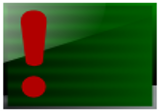
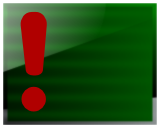
Fixed walls and info boxes

diff --git a/src/objects/wall.cpp b/src/objects/wall.cpp
@@ -1,12 +1,14 @@
 #include "wall.hpp"
 
 using namespace Objects;
+using namespace Cairo;
 
 #define RECT_SIZE_Y GRID_SIZE_2
 #define RECT_MIN_X 80
 #define RECT_MAX_X 1200
 
-#define IMG_SIZE 64
+#define IMG_SIZE_X 32
+#define IMG_SIZE_Y 64
 
 #include "../misc/data.hpp"
 
@@ -15,7 +17,11 @@ Wall::Wall(EditorCallbacks &callbacks, double x, double y, double sx, double rot
 	hasEndsMenuItem(NULL),
 	hasEnds(true) // True by default
 {
-	wall = Cairo::ImageSurface::create_from_png(Misc::Data::getFilePath("wall.png"));
+	wallImage = Cairo::ImageSurface::create_from_png(Misc::Data::getFilePath("walledge.png"));
+	RefPtr<Surface> s = RefPtr<Surface>::cast_dynamic(wallImage);
+	wallPattern = Cairo::SurfacePattern::create(s);
+	wallPattern->set_extend(EXTEND_REPEAT);
+
 	wallside = Cairo::ImageSurface::create_from_png(Misc::Data::getFilePath("wallside.png"));
 	hasEndsMenuItem = contextMenu->AppendCheckItem(contextMenuNextAvailableSlot++, _("&Has End parts"));
 	hasEndsMenuItem->Check(hasEnds);
@@ -28,7 +34,12 @@ Wall::Wall(EditorCallbacks &callbacks, TiXmlElement &item) :
 {
 	sy = RECT_SIZE_Y;
 	item.QueryBoolAttribute("hasEnds", &hasEnds);
-	wall = Cairo::ImageSurface::create_from_png(Misc::Data::getFilePath("wall.png"));
+
+	wallImage = Cairo::ImageSurface::create_from_png(Misc::Data::getFilePath("walledge.png"));
+	RefPtr<Surface> s = RefPtr<Surface>::cast_dynamic(wallImage);
+	wallPattern = Cairo::SurfacePattern::create(s);
+	wallPattern->set_extend(EXTEND_REPEAT);
+
 	wallside = Cairo::ImageSurface::create_from_png(Misc::Data::getFilePath("wallside.png"));
 	hasEndsMenuItem = contextMenu->AppendCheckItem(contextMenuNextAvailableSlot++, _("&Has End parts"));
 	hasEndsMenuItem->Check(hasEnds);
@@ -57,7 +68,8 @@ void Wall::draw(Cairo::RefPtr<Cairo::Context> &cr)
 	cr->rotate(getRotation());
 	cr->scale(.5, .5);
 
-	cr->set_source(wall, -RECT_MAX_X, -getSY());
+	wallPattern->set_matrix(translation_matrix(-getSX(), -getSY()));
+	cr->set_source(wallPattern);
 	cr->rectangle(-getSX(), -getSY(), getSX() * 2, getSY() * 2);
 	cr->fill();
 
@@ -66,7 +78,7 @@ void Wall::draw(Cairo::RefPtr<Cairo::Context> &cr)
 		{
 			cr->rotate(M_PI);
 			cr->set_source(wallside, getSX(), -getSY());
-			cr->rectangle( getSX(), -getSY(), IMG_SIZE, IMG_SIZE);
+			cr->rectangle( getSX(), -getSY(), IMG_SIZE_X, IMG_SIZE_Y);
 			cr->fill();
 		}
 	}

diff --git a/src/objects/wall.hpp b/src/objects/wall.hpp
@@ -18,7 +18,8 @@ namespace Objects
 			void saveXMLChild(TiXmlElement* item);
 
 			Cairo::RefPtr<Cairo::ImageSurface> wallside;
-			Cairo::RefPtr<Cairo::ImageSurface> wall;
+			Cairo::RefPtr<Cairo::ImageSurface> wallImage;
+			Cairo::RefPtr<Cairo::SurfacePattern> wallPattern;
 
 			bool hasEnds;
 			wxMenuItem *hasEndsMenuItem;

diff --git a/src/objects/infobox.cpp b/src/objects/infobox.cpp
@@ -2,8 +2,8 @@
 
 using namespace Objects;
 
-#define INFOBOX_SIZE_X 80
-#define INFOBOX_SIZE_Y 56
+#define INFOBOX_SIZE_X (GRID_SIZE * 5)
+#define INFOBOX_SIZE_Y (GRID_SIZE * 4)
 
 #include "../misc/data.hpp"
 
